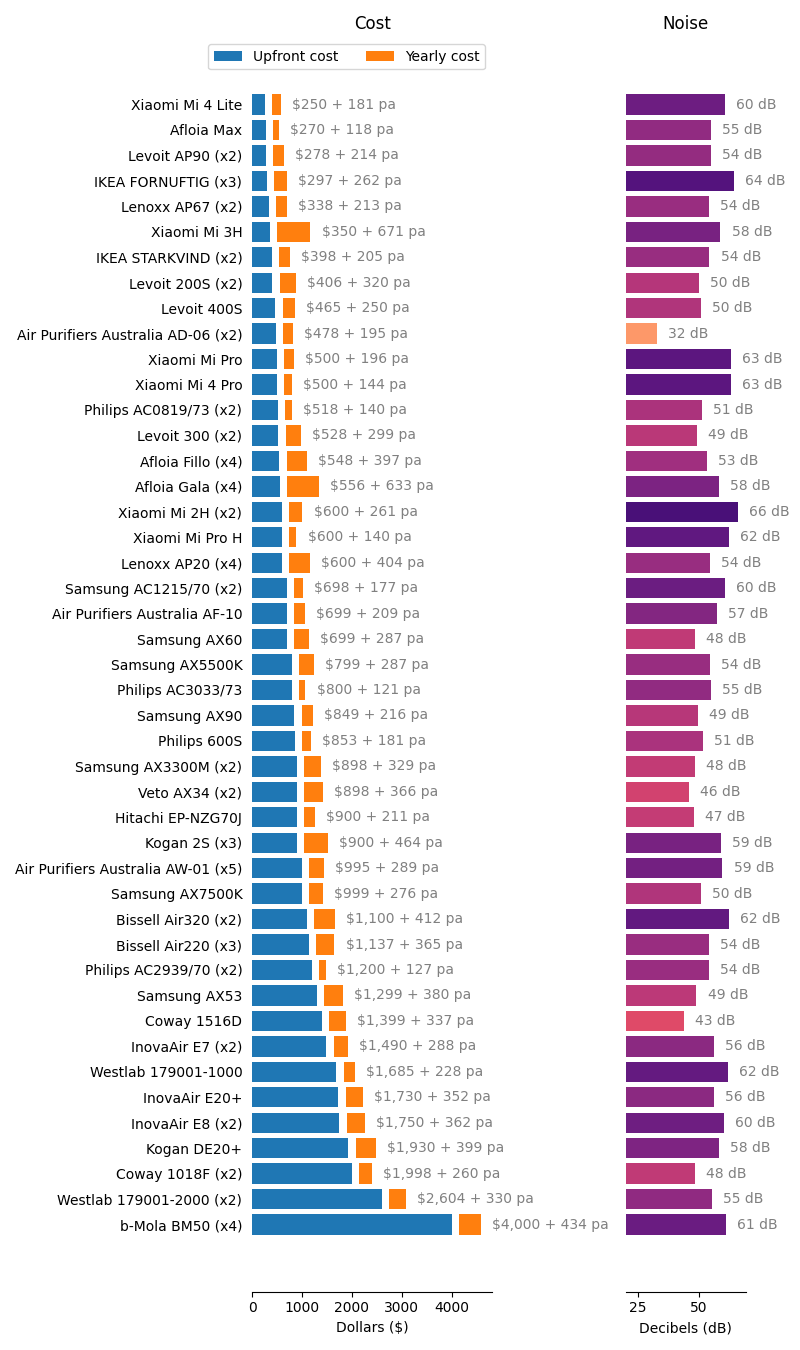
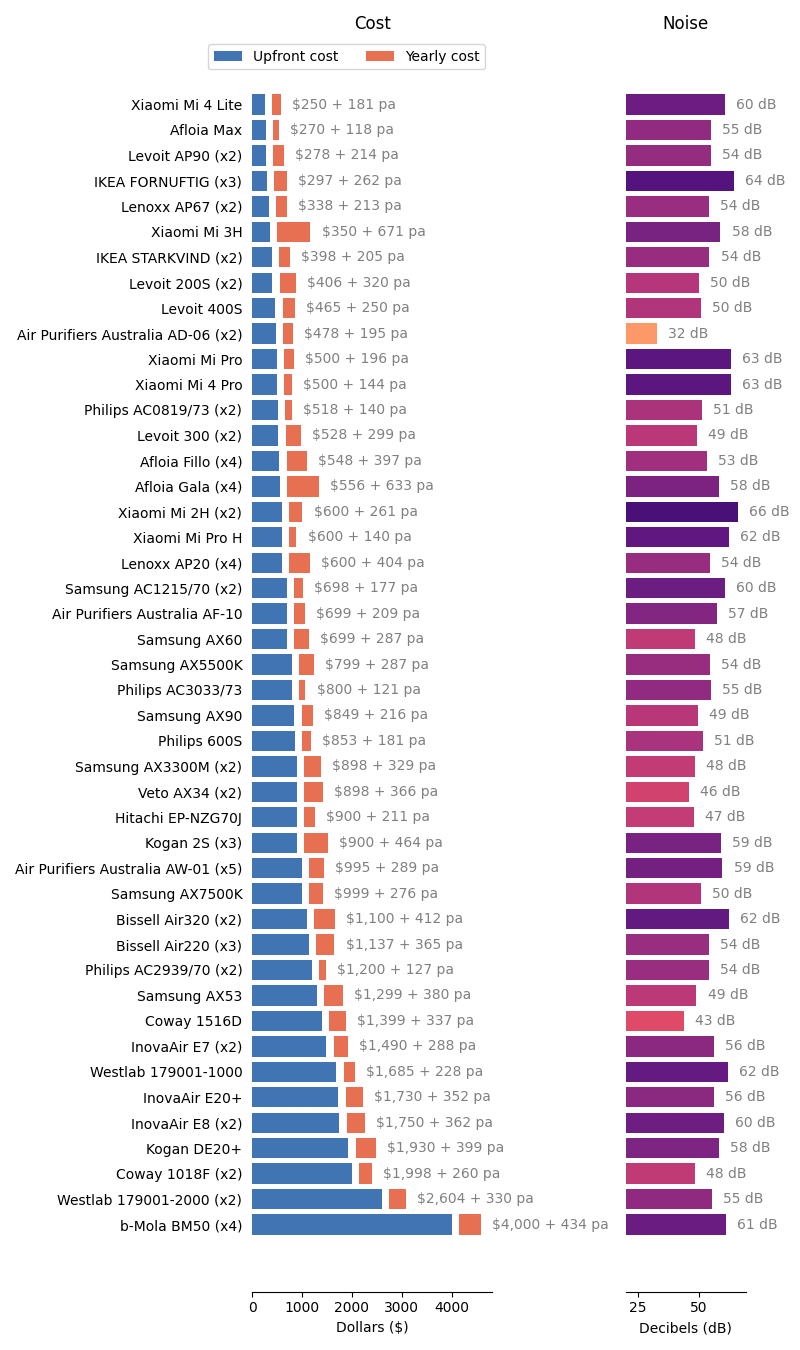
Quick push

Changed region(s): [[0.3125, 0.0622, 0.5938, 0.9333], [0.25, 0.0311, 0.3125, 0.0622], [0.4688, 0.0311, 0.5, 0.0622]]

diff --git a/aircleaning/produce.py b/aircleaning/produce.py
@@ -48,8 +48,12 @@ def cost_analysis(data=None, /, volume='medium', quality='good', path=productsdi
     y_pos = np.arange(len(data))
 
     gap = (data['upfront'] + data['running']).max()
-    innerbars = ax1.barh(y_pos, data['upfront'])
-    outerbars = ax1.barh(y_pos, data['running'], left=data['upfront']+gap/30)
+    innerbars = ax1.barh(
+        y_pos, data['upfront'], color='#4074B2'
+        )
+    outerbars = ax1.barh(
+        y_pos, data['running'], left=data['upfront']+gap/30, color='#E77052'
+        )
     ax1.set_yticks(y_pos, labels=data['fullname'])
     ax1.invert_yaxis()  # labels read top-to-bottom
     ax1.set_xlabel('Dollars ($)')
